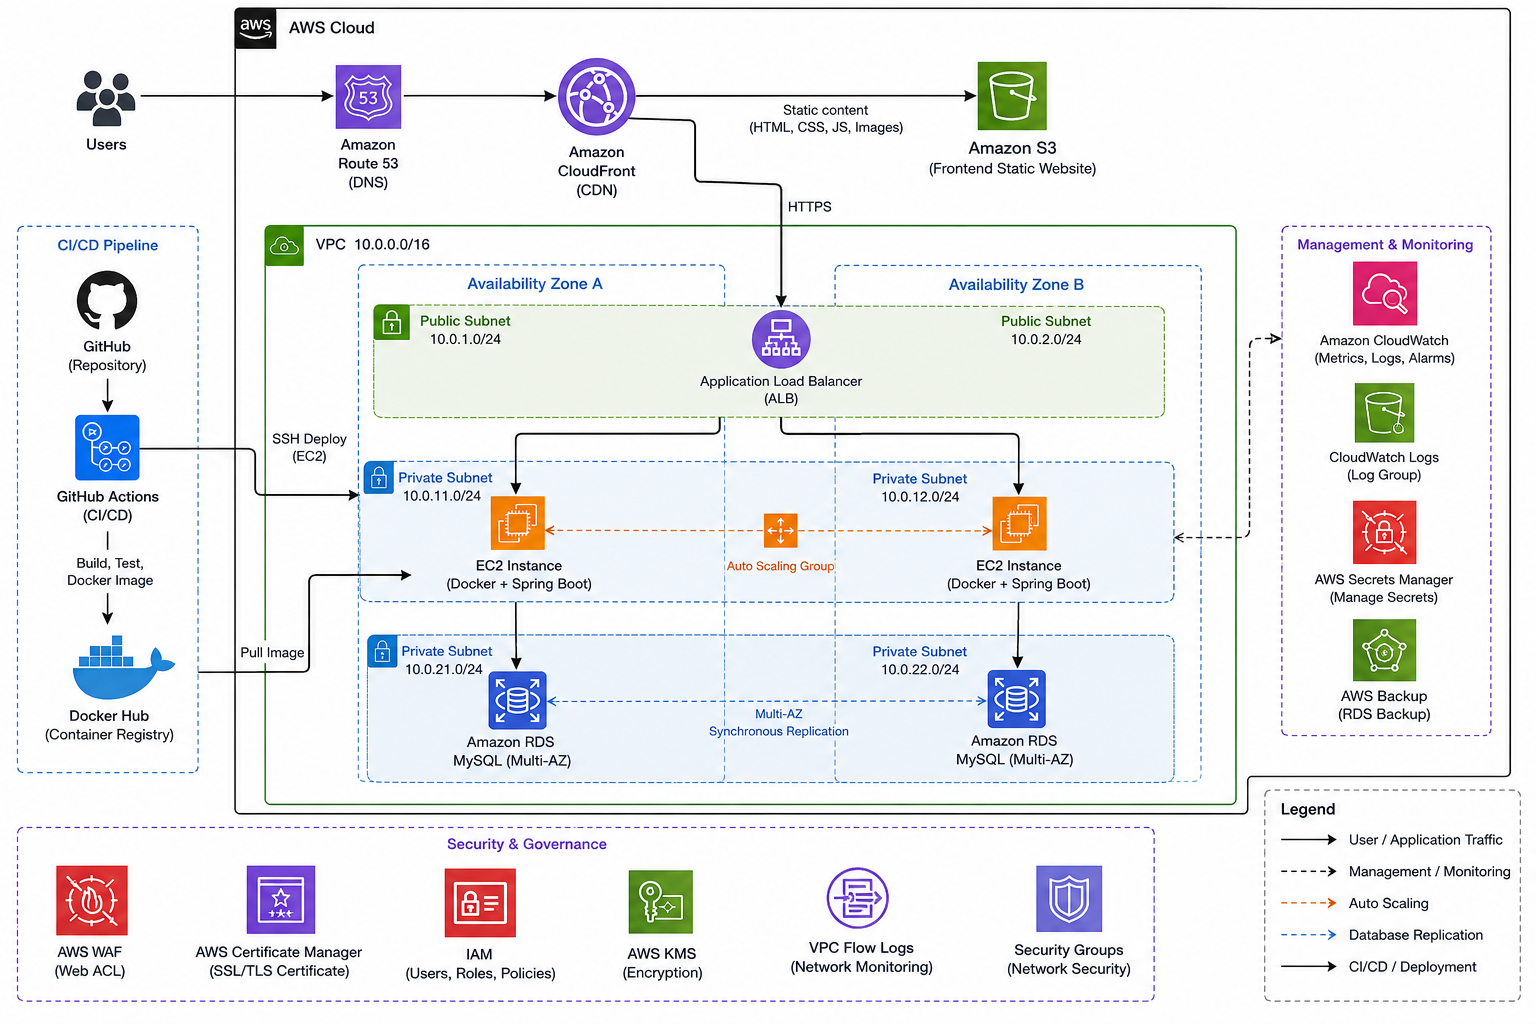
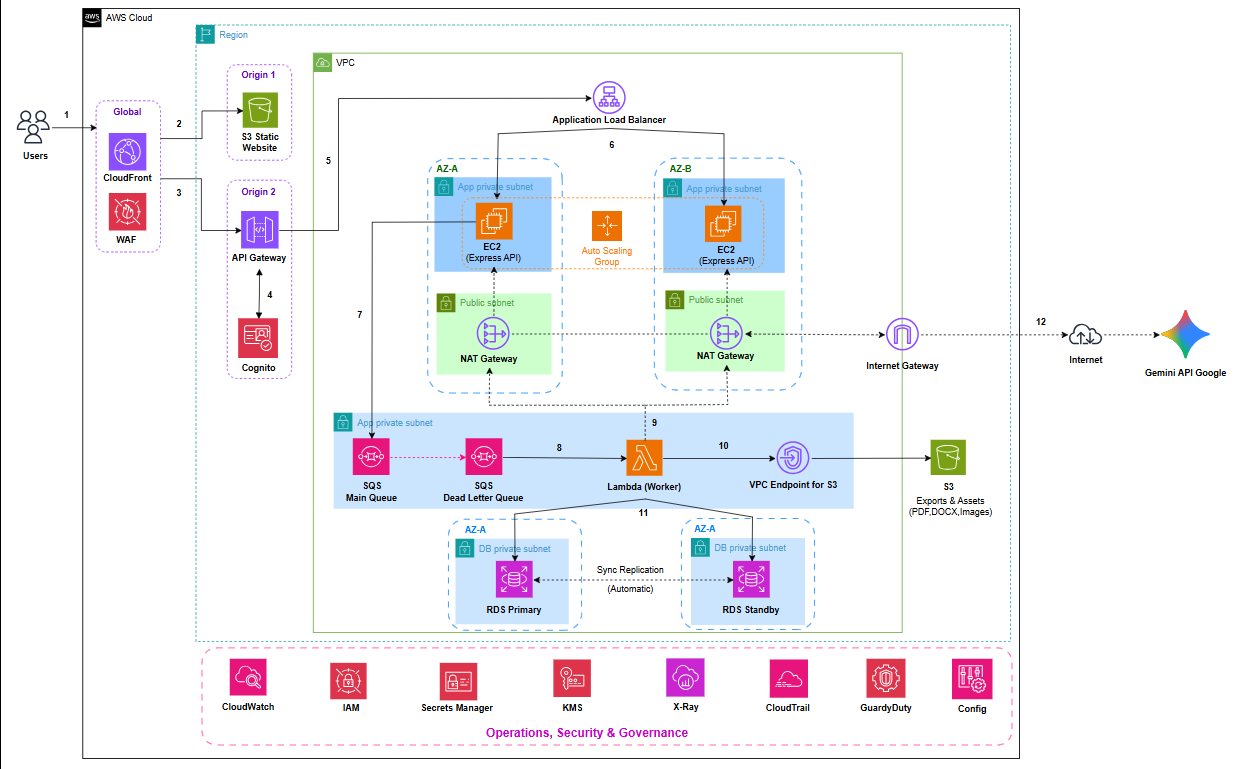
updatde event

Changed region(s): [[0.0, 0.0, 1.0, 0.9987], [0.0308, 0.8427, 0.0923, 0.9987]]

diff --git a/content/4-EventParticipated/4.1-Event1/_index.md b/content/4-EventParticipated/4.1-Event1/_index.md
@@ -216,14 +216,22 @@ Beyond the technical knowledge gained from the sessions, the networking opportun
 
 ### Photos from the Event
 
-> ![join\_event1](/images/events/event1/join_event1.jpg)
+> ![join_event2](/images/events/event1/join_event2.jpg)
 >
-> ![join\_event2](/images/events/event1/join_event2.jpg)
+> ![Session1](/images/events/event1/ss1.png)
 >
-> ![Session1](/images/events/event1/Session1.jpg)
+> ![Session2](/images/events/event1/ss2.png)
 >
-> ![Session2](/images/events/event1/Session2.jpg)
+> ![Session4](/images/events/event1/ss3.png)
 >
-> ![Session4](/images/events/event1/Session4.jpg)
+> ![Session6](/images/events/event1/ss4.png)
 >
-> ![Session6](/images/events/event1/Session6.jpg)
+> ![Session1](/images/events/event1/ss1.png)
+>
+> ![Session2](/images/events/event1/ss5.png)
+>
+> ![Session4](/images/events/event1/ss6.png)
+>
+> ![Session6](/images/events/event1/ss7.png)
+>
+> ![Session6](/images/events/event1/ss8.png)

diff --git a/content/4-EventParticipated/4.1-Event1/_index.vi.md b/content/4-EventParticipated/4.1-Event1/_index.vi.md
@@ -198,14 +198,22 @@ CloudFront không chỉ là CDN mà là **nền tảng toàn diện** cho mọi 
 
 ### Một số hình ảnh khi tham gia sự kiện
 
-> ![join_event1](/images/events/event1/join_event1.jpg)
->
 > ![join_event2](/images/events/event1/join_event2.jpg)
 >
-> ![Session1](/images/events/event1/Session1.jpg)
+> ![Session1](/images/events/event1/ss1.png)
 >
-> ![Session2](/images/events/event1/Session2.jpg)
+> ![Session2](/images/events/event1/ss2.png)
 >
-> ![Session4](/images/events/event1/Session4.jpg)
+> ![Session4](/images/events/event1/ss3.png)
 >
-> ![Session6](/images/events/event1/Session6.jpg)
+> ![Session6](/images/events/event1/ss4.png)
+>
+> ![Session1](/images/events/event1/ss1.png)
+>
+> ![Session2](/images/events/event1/ss5.png)
+>
+> ![Session4](/images/events/event1/ss6.png)
+>
+> ![Session6](/images/events/event1/ss7.png)
+>
+> ![Session6](/images/events/event1/ss8.png)

diff --git a/content/4-EventParticipated/4.2-Event2/_index.md b/content/4-EventParticipated/4.2-Event2/_index.md
@@ -240,12 +240,4 @@ FCAJ Community Day was one of the highest-quality AWS community events I have at
 
 > ![join_event](/images/events/event2/join_event.png)
 >
-> ![Session1](/images/events/event2/Session1.png)
->
-> ![Session2](/images/events/event2/Session2.png)
->
-> ![Session3](/images/events/event2/Session3.png)
->
-> ![Session4](/images/events/event2/Session4.png)
->
-> ![Session5](/images/events/event2/Session5.png)
+> ![ss](/images/events/event2/ss.png)